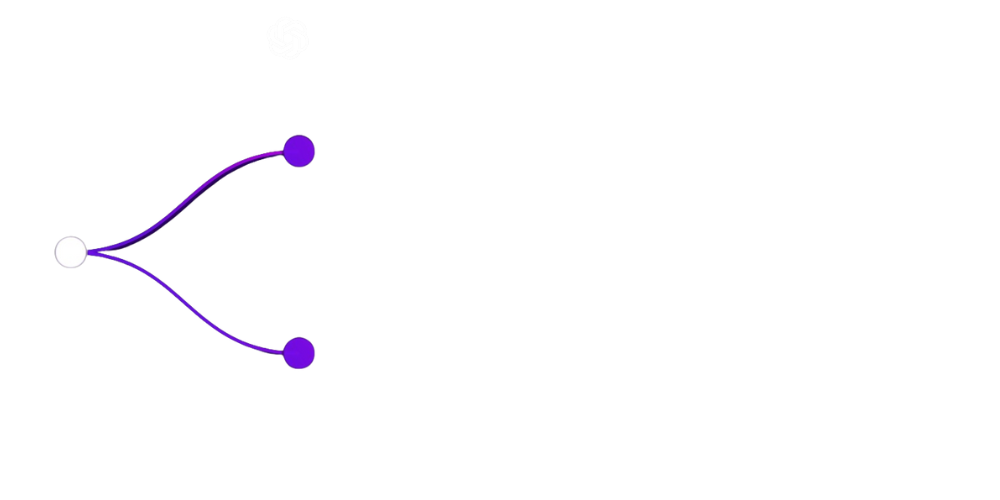
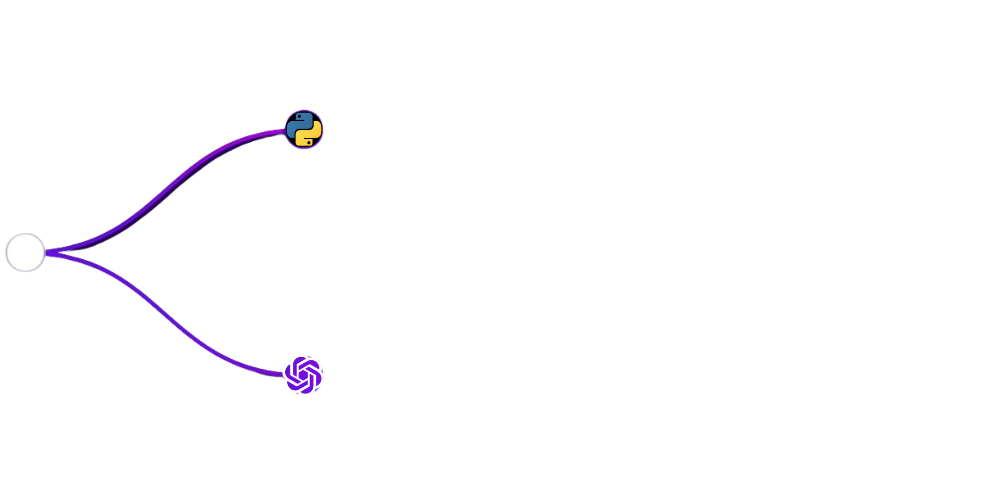
changed descriptive diagrams

Changed region(s): [[0.031, 0.21, 0.341, 0.78]]

diff --git a/findandextract/templates/findandextract/fandemain.html b/findandextract/templates/findandextract/fandemain.html
@@ -144,16 +144,20 @@
                                 <hr/><hr/>                        
                             </div>  
                             <a class="myButton" id="receive-followup">Continue</a> 
-                            <input style="margin-top:1%;margin-bottom:10%;display:none;" class="downloadbutton" type="submit" name="submitdescpost" value="Submit" id="submit-desc-txt"/>
+                            <input style="margin-top:1%;display:none;" class="downloadbutton" type="submit" name="submitdescpost" value="Submit" id="submit-desc-txt"/>
                         </form>
                         <div>
-                            <img src="{% static 'images/build a ui.png' %}">
+                            <div>
+                                <a target="_blank" style="position:relative; left:180px; top:100px;" href="https://www.python.org/downloads/">Download Link</a>
+                                <img style="width:800px;height:300px;margin-right:85px;" src="{% static 'images/Install Python.png' %}">
+                            </div> 
                             <div class="reveal">
-                                <img src="{% static 'images/Install Python.png' %}">
+                                <img src="{% static 'images/build a ui.png' %}">
                             </div>
                             <div class="reveal">
-                                <img src="{% static 'images/local files.png' %}">
+                                <img src="{% static 'images/package management.png' %}">
                             </div>
+                            
                         </div>
                     </div>
 

diff --git a/findandextract/static/carouselactions.js b/findandextract/static/carouselactions.js
@@ -87,7 +87,7 @@ $(document).ready(async function() {
 
 async function show_gpt_txt_box(){
     await add_to_carousel('Create a desktop app that analyzes your data:', action_color, ["document.getElementById('carouselcontainer" + (carousel_num) +"').classList.add('action')"], true, false);  
-    await add_to_carousel('The full power of ChatGPT -  offline', action_color, ["document.getElementById('carouselcontainer" + (carousel_num) +"').classList.add('actionfyi')"], true, false);
+    await add_to_carousel('Describe what you want to do and create a Python app to keep your data offline', action_color, ["document.getElementById('carouselcontainer" + (carousel_num) +"').classList.add('actionfyi')"], true, false);
     // await add_to_carousel('Never upload your data', action_color, ["document.getElementById('carouselcontainer" + (carousel_num) +"').classList.add('actionfyi')"], true, false);
     // await add_to_carousel('Keep all your data private', action_color, ["document.getElementById('carouselcontainer" + (carousel_num) +"').classList.add('actionfyi')"], true, false);
     document.getElementById('gpt-txt-wrap').style.display='block';

diff --git a/findandextract/static/findandextract.css b/findandextract/static/findandextract.css
@@ -118,6 +118,7 @@ h4{
 }
 .reveal{
     opacity: 0;
+    margin-top:8%;
 }
 .trans{
     opacity:0;

diff --git a/findandextract/desc_algo.py b/findandextract/desc_algo.py
@@ -98,8 +98,9 @@ class Gui:
     # Method to create the content in the Code tab
     def create_code_tab(self, code_tab):
         # Text area for code
-        code_text = Text(code_tab, wrap='word', font=('Ubuntu', 12))
+        code_text = Text(code_tab, wrap='word', font=('DejaVu Sans Mono', 10))
         code_text.grid(row=0, column=0, padx=20, pady=20, sticky="nsew")
+        code_text.insert(END, USER_CODE)
         code_text.configure(state='disabled')
 
     
@@ -112,15 +113,15 @@ class Gui:
         filename = filedialog.askopenfilename()
         self.filename_display.configure(state='normal') 
         self.filename_display.delete("1.0", END)
-        self.filename_display.insert(END, filename + '\n')
+        self.filename_display.insert(END, filename + '\\n')
         self.gpt_code = self.gpt_code.replace('FilePath.csv', filename)
         self.replace_filepath_in_code(filename)
         import_statements = self.generate_import_statements()
         self.structure_main_method(import_statements)
         self.progressbar.step(10)
         self.filename_display.configure(state='normal') 
-        self.filename_display.insert(END, "File Imported." + '\n')
-        self.filename_display.insert(END, "Installing required packages..." + '\n')
+        self.filename_display.insert(END, "File Imported." + '\\n')
+        self.filename_display.insert(END, "Installing required packages..." + '\\n')
         self.filename_display.configure(state='disabled') 
         print(filename)
 
